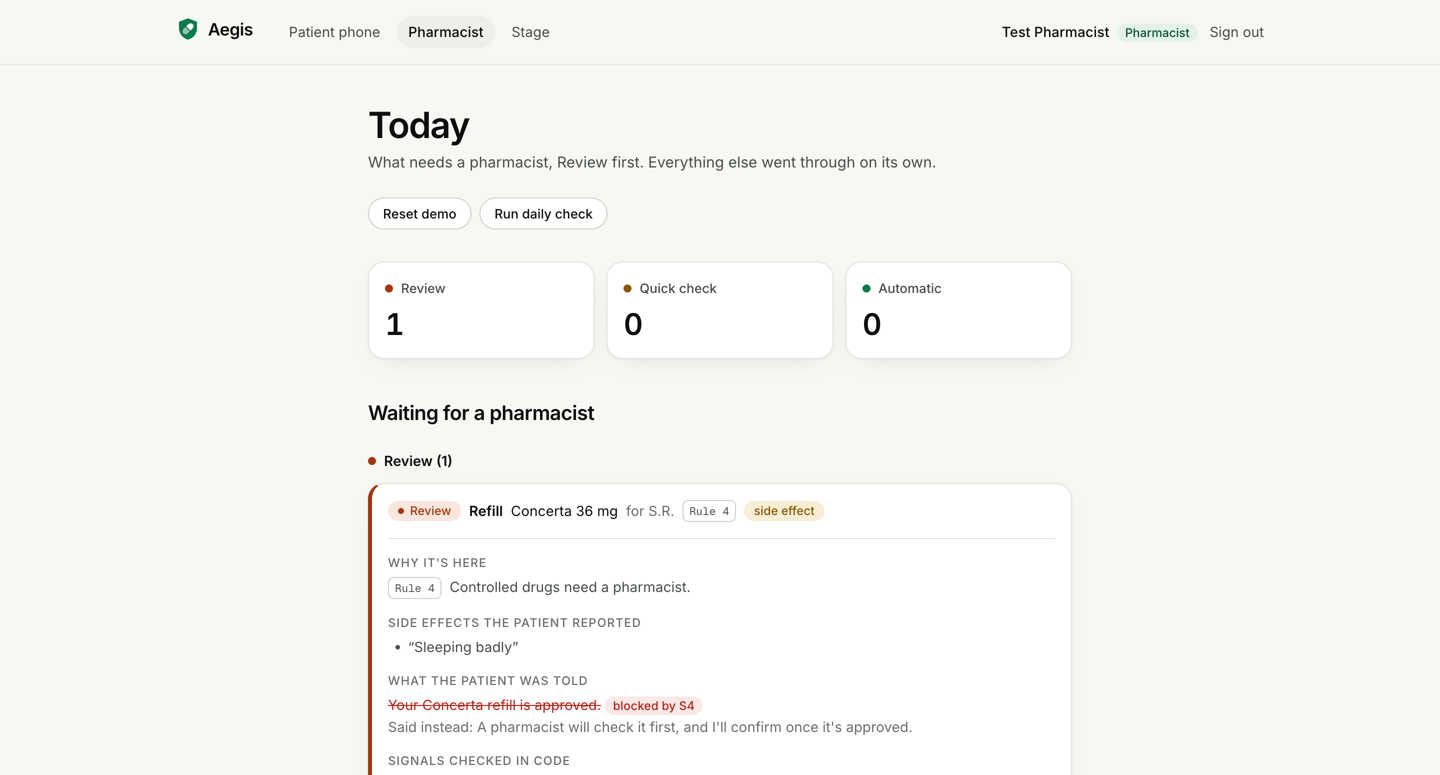
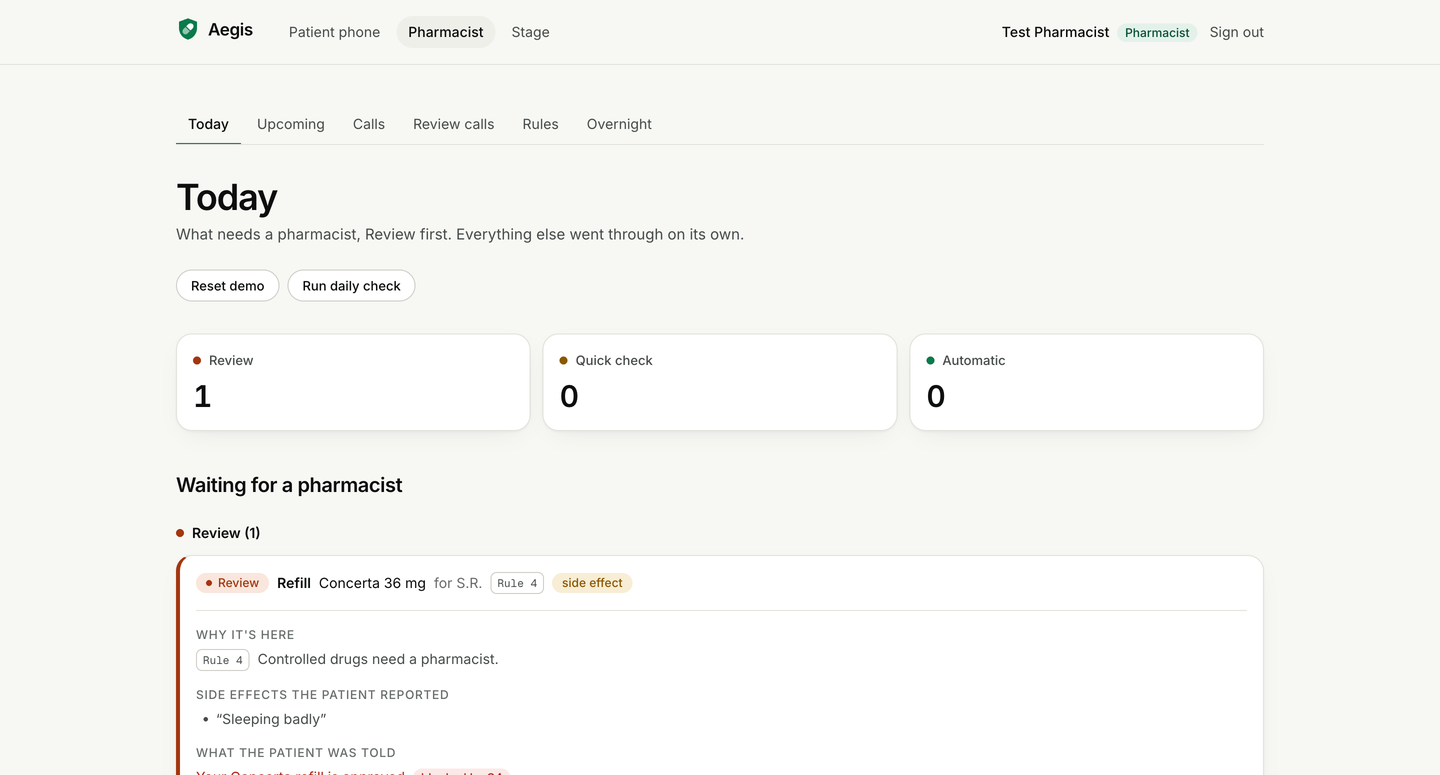
design: README Progress from main, new hammer numbers, fresh screenshots, console tabs line up (Trail #34)
Progress: core demo done (DEMO.md passes 15-17), 811 tests, hammer 0 broken over
77,648 sequences; Role 3 and 4 rows and a design row from merged branches. README,
BRAND.md and the social preview use the new hammer totals. Today uses the console's
default width so the tab bar doesn't jump; /stage drops the stray 'live' label.

Entire-Checkpoint: 01M808EQWVE082WESCC9793SRA

diff --git a/app/stage/StageView.tsx b/app/stage/StageView.tsx
@@ -98,7 +98,7 @@ export function StageView() {
           <span className="text-lg text-ink-2">The lock, live</span>
         </div>
         <div className="flex items-center gap-4">
-          <span className="font-mono text-sm text-ink-3">{state.now ? new Date(state.now).toLocaleString() : "live"}</span>
+          {state.now && <span className="font-mono text-sm text-ink-3">{new Date(state.now).toLocaleString()}</span>}
           <span className="inline-flex items-center gap-2 rounded-full bg-accent-soft px-3 py-1 text-sm font-medium text-accent">
             <span className="size-2 rounded-full bg-accent rg-ring" aria-hidden />
             Live

diff --git a/app/console/today/page.tsx b/app/console/today/page.tsx
@@ -10,7 +10,6 @@ export default function TodayPage() {
   return (
     <PageShell
       current="/console/today"
-      width="narrow"
       right={
         <Suspense fallback={<span className="text-sm text-ink-3">Checking sign-in…</span>}>
           <SignInBar />

diff --git a/README.md b/README.md
@@ -84,18 +84,19 @@ Overall · Best Health Hack by Sun Life · Best Use of Auth0 · Best Use of Vult
 
 ## Progress
 
-*Last updated Sat 6:56 AM EST. Each role's agent keeps **only its own row** current: update it whenever you post a HANDOFF, and Role 4 updates a row's "Merged" column when it posts MERGED. Counts come from the channel and `main`, never from guesses.*
+*Last updated Sat 6:31 PM EST from `main` and the channel. Each role's agent keeps **only its own row** current: update it whenever you post a HANDOFF, and the integrator updates a row's "Merged" column when it posts MERGED. Counts come from the channel, `main` and `results/`, never from guesses.*
 
-**Core demo: about 85% built, 67% merged to `main`** (19.5 and 15.5 of 23 core tasks). Sam's demo call already passes end to end on `main`, twice from a reset.
+**Core demo: done.** Three clean passes in a row (15, 16 and 17) on `main` 13474ca, Sat 4:05 to 4:28 PM EST, logged in [`docs/DEMO.md`](docs/DEMO.md) with the final walkthrough in `results/demo/2026-11-21T1625-final/`. The gate on `main`: 811 tests pass (1 expected fail, 7 skipped), and the last hammer run reports 0 rules broken across 77,648 hostile press sequences.
 
 | Role | Core done | Merged to `main` | Built, in review | Working on now | Next |
 |---|---|---|---|---|---|
 | **1 · Voice and agent** | **5.5 of 6 built** (all 6 merged; 1.5 part 2 merged, 1.6's real median needs a live run) | 1.1 prompt and fixed lines, 1.2 typed agent loop plus 1.2b the Agent SDK model, 1.3 outbound call and side effects, 1.4 phone page, 1.5 part 1 voice without keys, 1.6 timing marks, 1.8 interrupt and silence (after core), the phone Answer crash fix (Trail #37) | 1.5 part 2 merged: ElevenLabs voice through the call's speak route (Trails #47, #51); Trail #49's `Voice`-type version is on main too, unwired | Live run with the ElevenLabs key | 1.6's real median and 1.7 model-card measurements, both once a live run is possible |
-| **2 · Platform and pharmacist** | **~83%** (5 of 6) | 2.1-2.5, 2.7 Postgres store live on Tiger Data, 2.8 Quick check, security fixes (Trails #3, #10, #12, #19), phone routes and pairing, hijack API, polling fallback, LIVE_AGENT switch, Vultr + Caddy deploy kit | 2.9 dashboards: Upcoming (Trail #44) and Calls (Trail #50); speech route (Trail #47) | Waiting on review | 2.6: run hosting/README.md once the Vultr and GoDaddy codes are in |
-| **3 · Red team and evals** | **~80%** (4 of 5) | 3.1 first 10 scenarios, 3.2 hijack agent, 3.3 scenario runner, 3.4 hijack batch | Fixes for review findings on Trail #11 (Trail #17) | Review fixes | 3.5 all 28 scenarios, 3 runs each |
-| **4 · The lock and integrator** | **~95%** (5 of 6, plus ongoing integration) | Task 0 contract, 4.2 store and seed, 4.3 control layer, 4.4 speech guard, 4.5 hammers (0 rules broken), 4.6 stage view, 4.7 Sam's call end to end | – | 4.7 gating and merging handoffs | 4.10 `entire why` export, 4.9 token measurement |
+| **2 · Platform and pharmacist** | **~83%** (5 of 6) | 2.1-2.5, 2.7 Postgres store live on Tiger Data, 2.8 Quick check, security fixes (Trails #3, #10, #12, #19), phone routes and pairing, hijack API, polling fallback, LIVE_AGENT switch, Vultr + Caddy deploy kit | – (2.9 dashboards Upcoming, Trail #44, and Calls, Trail #50, and the speech route, Trail #47, are merged) | Hosting | 2.6: run hosting/README.md once the Vultr and GoDaddy codes are in |
+| **3 · Red team and evals** | **4 of 5**, plus the console tabs | 3.1 first 10 scenarios, 3.2 hijack agent, 3.3 scenario runner, 3.4 hijack batch (batch ids fixed, Trail #14), 3.8 console tabs: Review calls and Overnight safety (Trail #46) and Rules, the two-refill regression test. 32 scenario files are in `scenarios/` | – | – | 3.5: run the scenario suite and save a scoreboard (the Overnight tab still shows "No run yet") |
+| **4 · The lock and integrator** | **6 of 6** | Task 0 contract, 4.2 store and seed, 4.3 control layer, 4.4 speech guard, 4.5 hammers (0 rules broken), 4.6 stage view plus the hijack screen on `/stage`, 4.7 Sam's call end to end, the fail-closed lock (Trail #32), side effects to Review (Trail #25), every S4 fix from the demo passes (Trail #27), 4.9 token summary script (Trail #59) | – | Gating and merging handoffs | Run 4.9 to save `results/tokens-latest.json`; 4.10 `entire why` export |
+| **Design** (helper agent) | Done | Aegis brand, logo and icons, the UI kit in `components/ui/`, the landing page, restyled `/stage`, `/phone` and `/console/today`, the six-tab console nav, the README hero (Trail #34) | – | – | – |
 
-**Review:** a code reviewer agent posts findings on each Trail and holds merges until they're fixed. Open now: Trail #12 (3 high), #10 (3 high), #3 (1 high), #11 (1 high, 1 medium), #6 (1 low).
+**Review:** the code reviewer posts findings on each Trail and holds merges until they're fixed. `scripts/channel.sh trail-inbox <role>` lists the ones still open for a role.
 
 ---
 

diff --git a/docs/BRAND.md b/docs/BRAND.md
@@ -91,6 +91,6 @@ Short and only to show what changed: 150 to 300 ms for UI, up to 550 ms for the 
 
 Short and concrete. Say what the product does, with real numbers from `results/` only.
 
-- Do: "0 rules broken across 60,518 hostile press sequences." "A pharmacist sees only the tricky calls."
+- Do: "0 rules broken across 77,648 hostile press sequences." "A pharmacist sees only the tricky calls."
 - Don't: "Revolutionize pharmacy care with AI-powered...", "seamless", "cutting-edge", exclamation marks, emoji.
 - Patients are made up (phone numbers 555-01xx). Never a real person.
